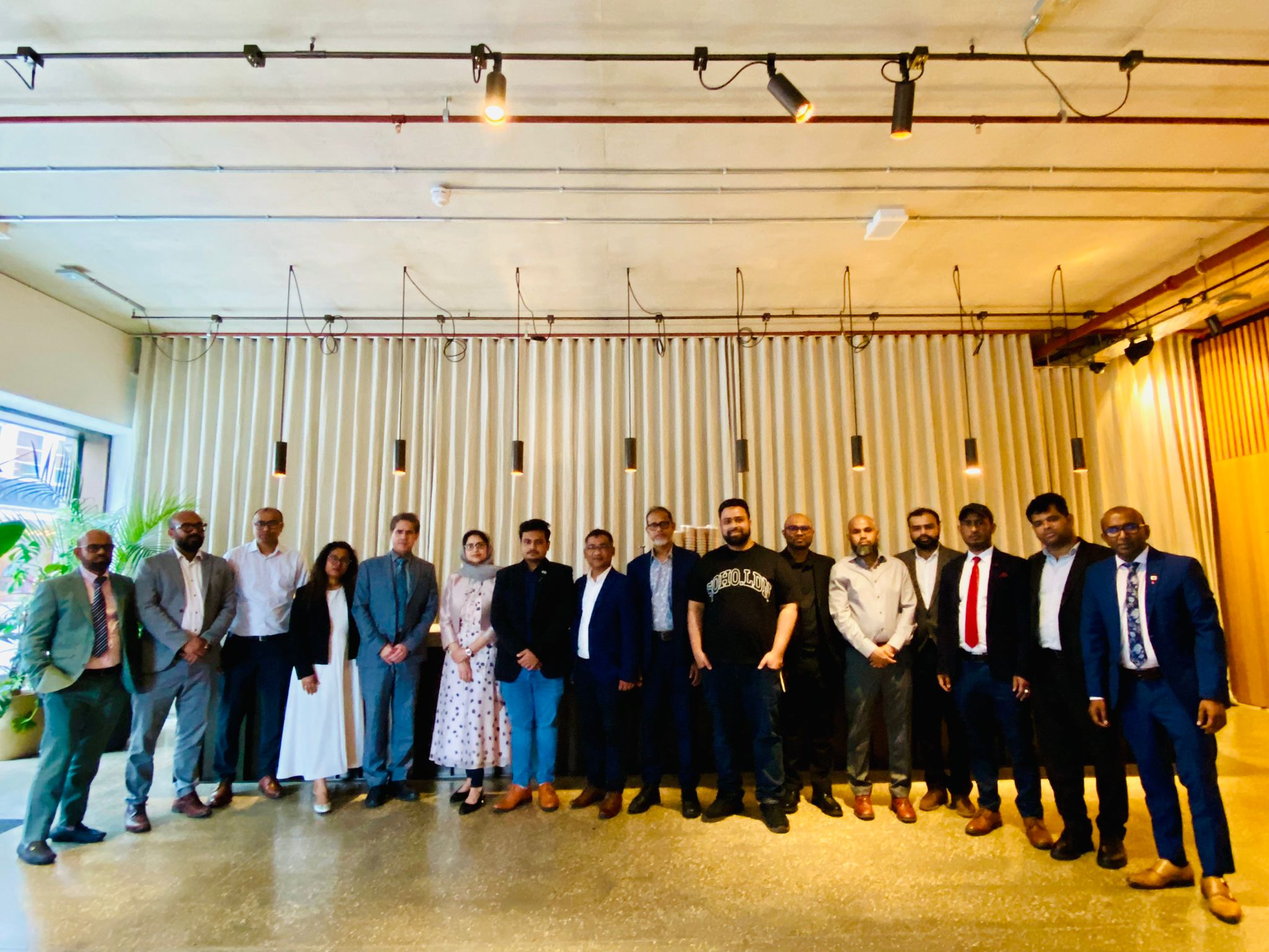
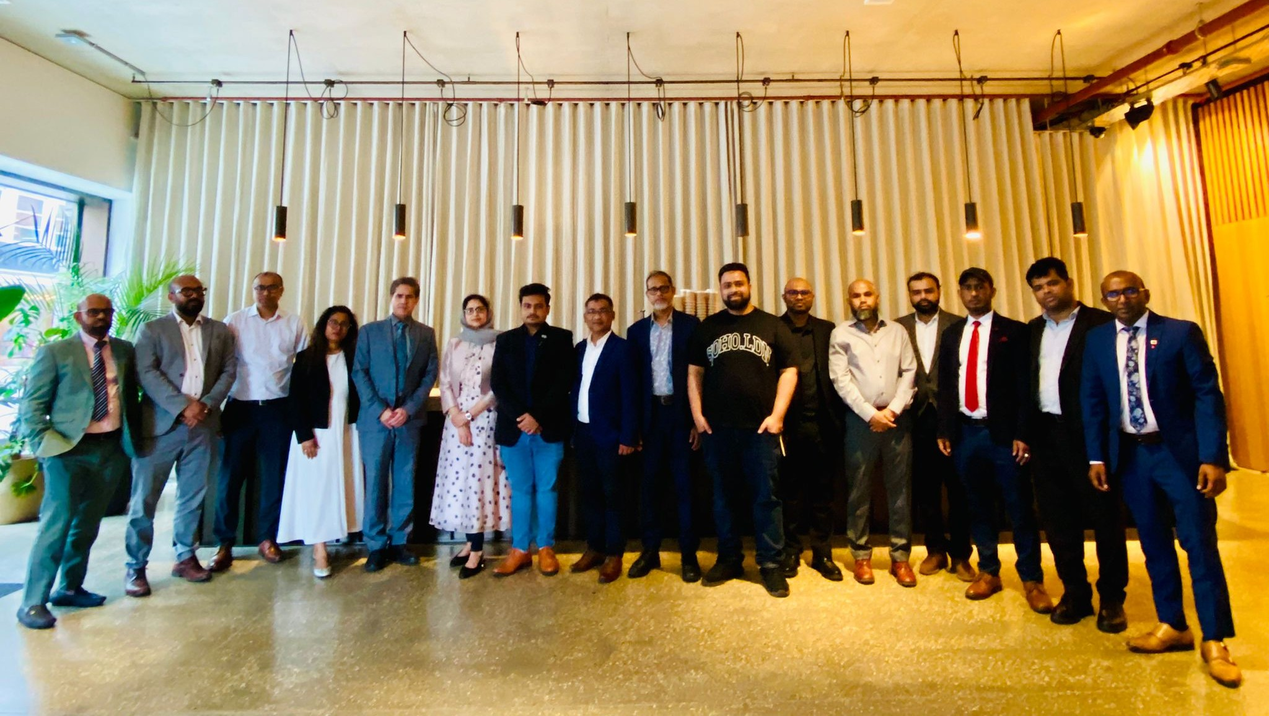
landing page added

diff --git a/Client/src/components/LandingPage.tsx b/Client/src/components/LandingPage.tsx
@@ -1,0 +1,96 @@
+"use client";
+import { useEffect, useState } from "react";
+import Image from "next/image";
+import Container from "./Container";
+import { Rounded_Button } from "./Rounded_Button";
+
+const images = [
+  "/landing_page/1.jpg",
+  "/landing_page/2.jpg",
+  "/landing_page/3.jpg",
+];
+
+export default function LandingPage() {
+  const [currentIndex, setCurrentIndex] = useState(0);
+  const [prevIndex, setPrevIndex] = useState<number | null>(null);
+
+  useEffect(() => {
+    const interval = setInterval(() => {
+      setPrevIndex(currentIndex);
+      setCurrentIndex((prev) => (prev + 1) % images.length);
+    }, 6000);
+    return () => clearInterval(interval);
+  }, [currentIndex]);
+
+  return (
+    <Container>
+      <div className="relative h-[90vh] mx-3 overflow-hidden  shadow-lg bg-black">
+        {/* Background Images */}
+        {images.map((src, index) => {
+          const isActive = index === currentIndex;
+          const isPrev = index === prevIndex;
+
+          return (
+            <Image
+              key={index}
+              src={src}
+              alt={`Slide ${index + 1}`}
+              fill
+              className={`absolute inset-0 w-full h-full object-cover transition-opacity ease-in-out duration-1000 transform 
+                ${isActive ? "opacity-100 z-20 animate-zoom-in" : isPrev ? "opacity-0 z-10" : "hidden"}`}
+              priority={index === 0}
+            />
+          );
+        })}
+
+        {/* Overlay */}
+        <div className="absolute inset-0 bg-[#0b0b5b]/50 z-30 pointer-events-none"></div>
+
+        {/* Hero Content */}
+        <div className="absolute inset-0 z-40 flex flex-col items-center justify-center text-center text-white px-4 md:px-8">
+          <h1 className="text-2xl  md:text-4xl xl:text-5xl font-bold mb-4 leading-tight max-w-5xl">
+            The Professional Accountants&apos; Society
+          </h1>
+
+          <p className="text-xs sm:text-lg text-white max-w-3xl mb-4 leading-relaxed">
+            A UK-based organisation representing British Bangladeshi Chartered and Chartered Certified Accountants.
+          </p>
+
+          <p className="text-sm md:text-base text-white max-w-3xl mb-5 md:mb-8 leading-relaxed hidden md:block">
+            We create an environment where members share knowledge, skills, and experience — empowering individuals while
+            contributing positively to the UK’s wider business and professional community.
+          </p>
+
+          {/* Buttons */}
+          <div className="flex flex-col md:flex-row items-center gap-2 md:gap-4">
+            <Rounded_Button href="/members/membership-and-fees" className="bg-transparent border-white text-white hover:text-[#0b0b5b]">
+              Membership & Fees
+            </Rounded_Button>
+            <Rounded_Button href="/members/benefits" className="bg-transparent border-white text-white hover:text-[#0b0b5b]">
+              Member Benefits
+            </Rounded_Button>
+            <Rounded_Button href="/contact-us" className="bg-transparent border-white text-white hover:text-[#0b0b5b]">
+              Join Us
+            </Rounded_Button>
+          </div>
+        </div>
+      </div>
+
+      {/* Zoom-in Keyframe Animation */}
+      <style jsx global>{`
+        @keyframes zoomInFade {
+          0% {
+            transform: scale(1.05);
+          }
+          100% {
+            transform: scale(1.15);
+          }
+        }
+
+        .animate-zoom-in {
+          animation: zoomInFade 6s ease-in-out forwards;
+        }
+      `}</style>
+    </Container>
+  );
+}

diff --git a/Client/src/app/page.tsx b/Client/src/app/page.tsx
@@ -2,11 +2,13 @@ import FindAccountant from "@/components/FindAccountant";
 import Slider from "@/components/Slider";
 import FeatureSection from "@/components/FeatureSection";
 import NewsAndBlogsSection from "@/components/NewsAndBlogsSection";
+import LandingPage from "@/components/LandingPage";
 
 
 export default function Home() {
   return (
     <div className=" ">
+      <LandingPage></LandingPage>
       <Slider></Slider>
       <FindAccountant></FindAccountant>
       <FeatureSection></FeatureSection>
